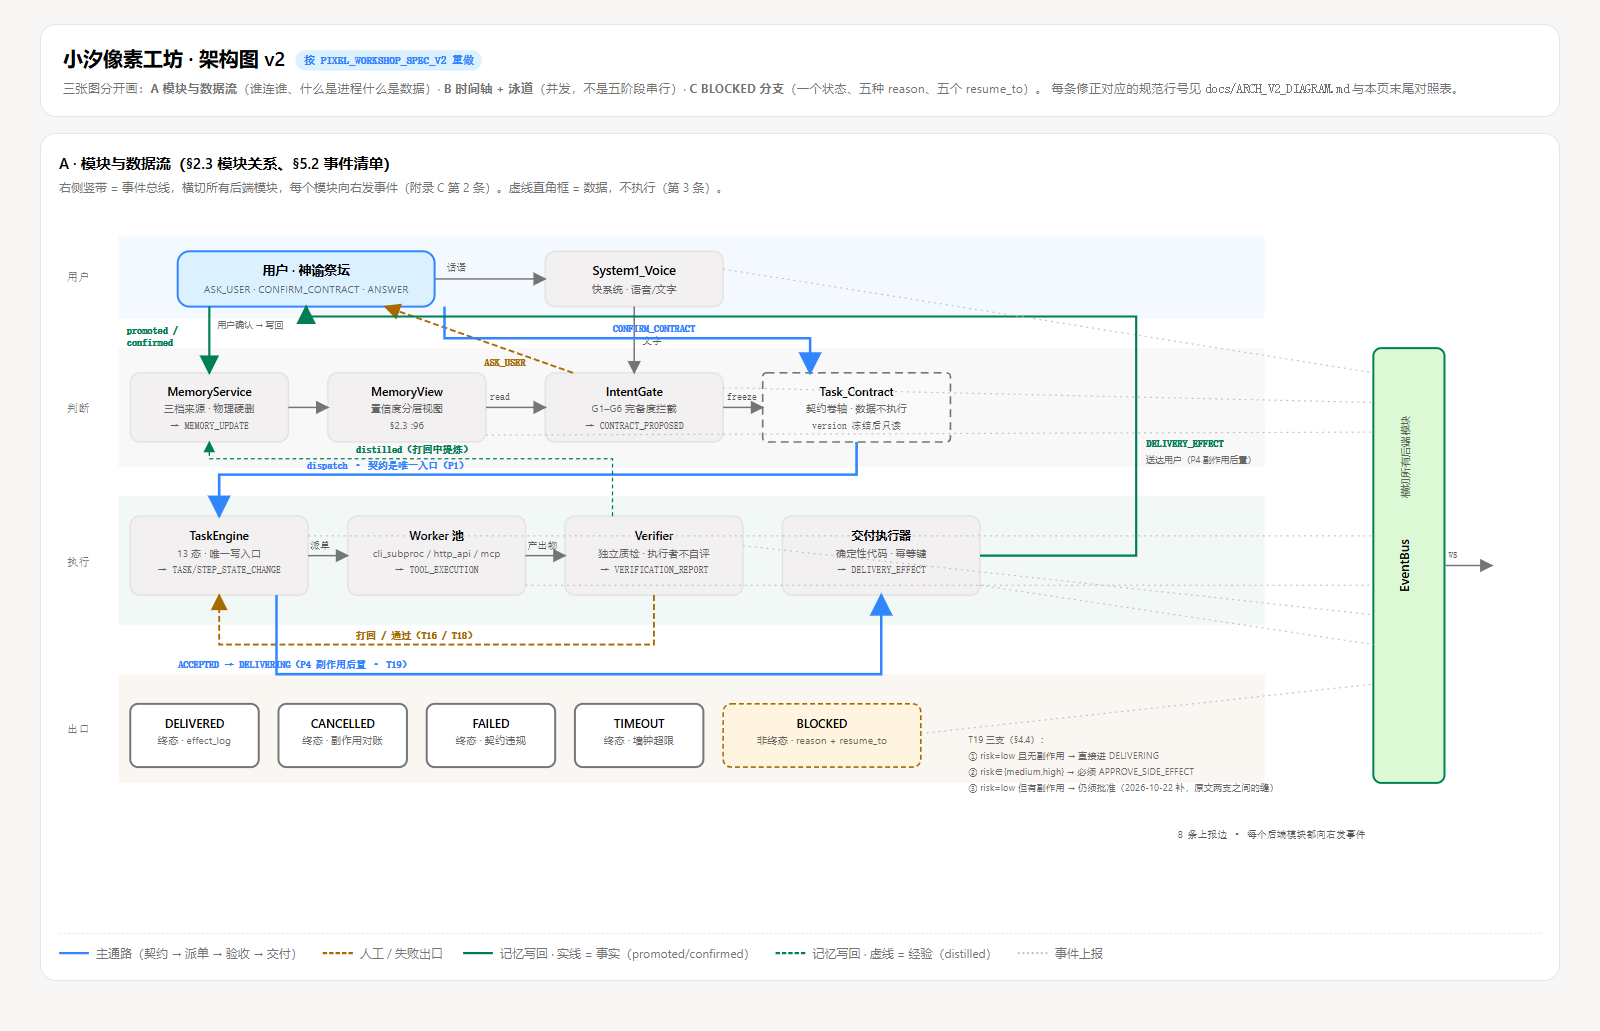
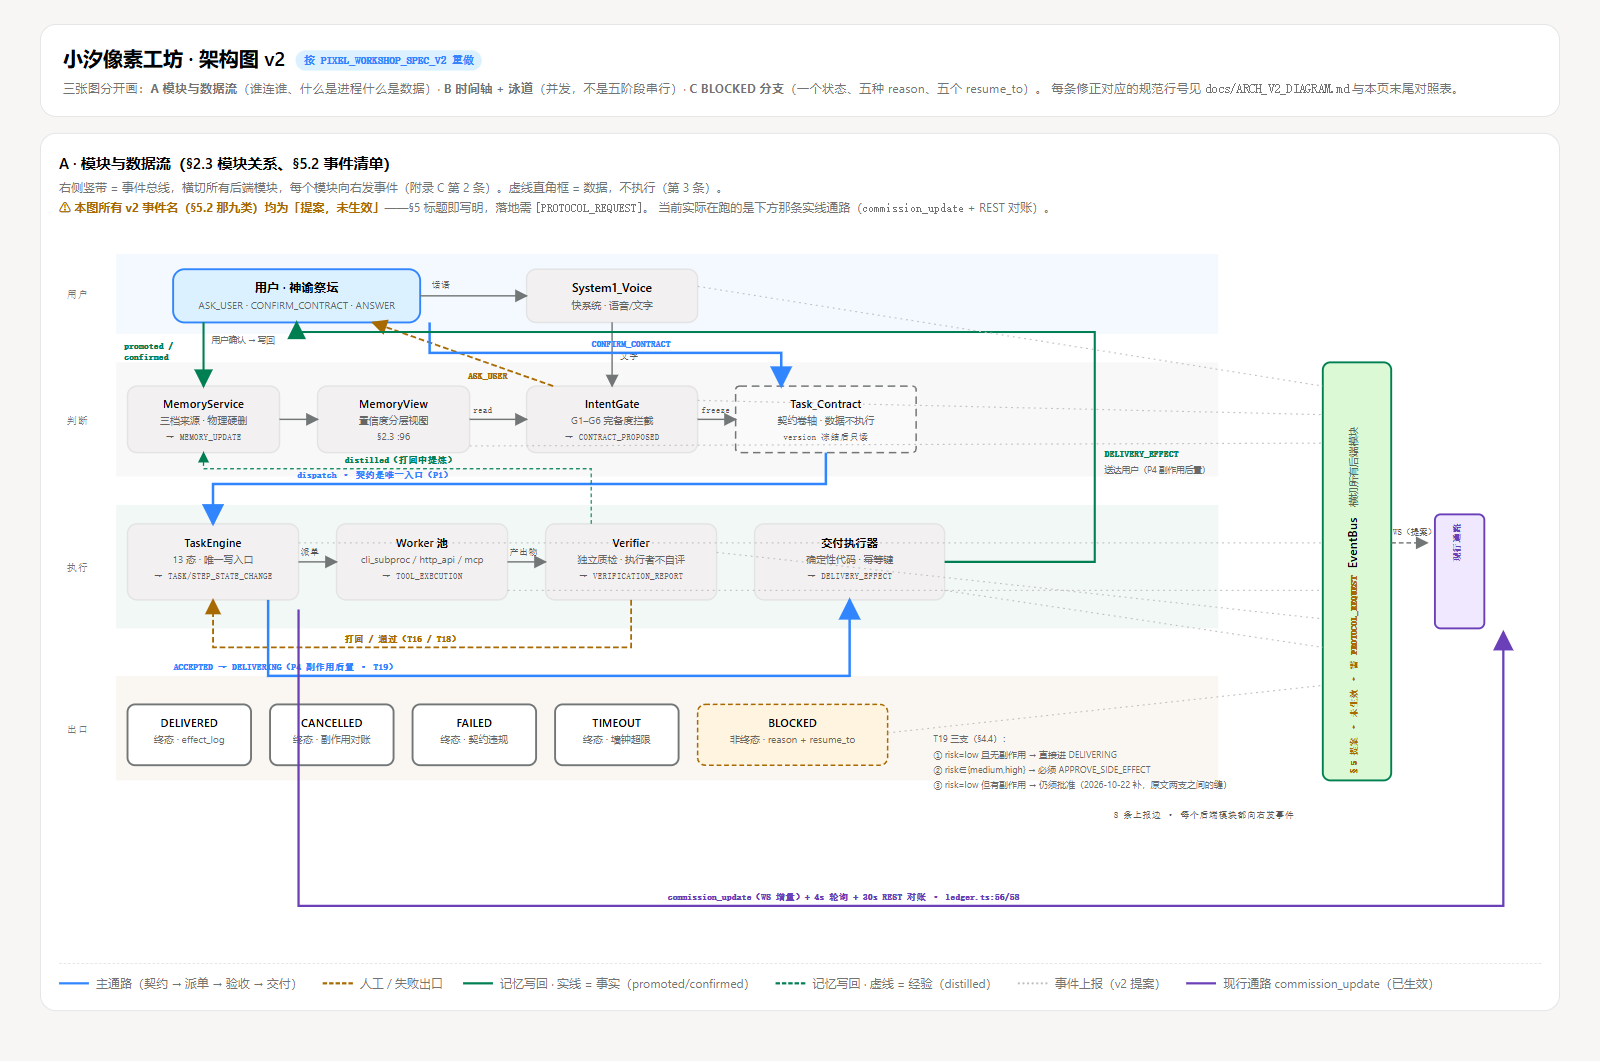
docs(arch): 图 A 标出 §5 事件为提案未生效，并补现行通路 commission_update（紫色实线）

diff --git a/docs/ARCH_V2_DIAGRAM.html b/docs/ARCH_V2_DIAGRAM.html
@@ -38,6 +38,8 @@
   .edge-b{stroke:var(--primary);stroke-width:2.6;fill:none}
   .edge-w{stroke:var(--warn);stroke-width:1.9;fill:none;stroke-dasharray:6 3}
   .edge-m{stroke:var(--positive);stroke-width:2.2;fill:none}
+  .edge-cur{stroke:#6a3fb8;stroke-width:2.4;fill:none}
+  .lbl-cur{fill:#6a3fb8;font-weight:600;font-size:10px;font-family:var(--ff-mono)}
   .edge-m-dash{stroke:var(--positive);stroke-width:1.3;fill:none;stroke-dasharray:4 3}
   .edge-faint{stroke:#c2c2c2;stroke-width:1.2;fill:none;stroke-dasharray:2 4}
   .lbl{font-family:var(--ff-mono);font-size:10px;fill:rgba(0,0,0,.66)}
@@ -73,13 +75,18 @@
 <!-- ============ A · 模块与数据流 ============ -->
 <div class="board" id="board-a">
   <h2>A · 模块与数据流（§2.3 模块关系、§5.2 事件清单）</h2>
-  <div class="note">右侧竖带 = 事件总线，横切所有后端模块，每个模块向右发事件（附录 C 第 2 条）。虚线直角框 = 数据，不执行（第 3 条）。</div>
-  <svg viewBox="0 0 1500 720" role="img" aria-label="模块与数据流">
+  <div class="note">
+    右侧竖带 = 事件总线，横切所有后端模块，每个模块向右发事件（附录 C 第 2 条）。虚线直角框 = 数据，不执行（第 3 条）。<br>
+    <b style="color:#a86a00">⚠ 本图所有 v2 事件名（§5.2 那九类）均为「提案，未生效」</b>——§5 标题即写明，落地需 <code>[PROTOCOL_REQUEST]</code>。
+    当前实际在跑的是下方那条实线通路（<code>commission_update</code> + REST 对账）。
+  </div>
+  <svg viewBox="0 0 1560 760" role="img" aria-label="模块与数据流">
     <defs>
       <marker id="a-ar" markerWidth="9" markerHeight="9" refX="8" refY="4.5" orient="auto"><path d="M0,0 L9,4.5 L0,9 z" fill="#727676"/></marker>
       <marker id="a-arb" markerWidth="9" markerHeight="9" refX="8" refY="4.5" orient="auto"><path d="M0,0 L9,4.5 L0,9 z" fill="#3186ff"/></marker>
       <marker id="a-arw" markerWidth="9" markerHeight="9" refX="8" refY="4.5" orient="auto"><path d="M0,0 L9,4.5 L0,9 z" fill="#a86a00"/></marker>
       <marker id="a-arm" markerWidth="9" markerHeight="9" refX="8" refY="4.5" orient="auto"><path d="M0,0 L9,4.5 L0,9 z" fill="#008052"/></marker>
+      <marker id="a-arc" markerWidth="9" markerHeight="9" refX="8" refY="4.5" orient="auto"><path d="M0,0 L9,4.5 L0,9 z" fill="#6a3fb8"/></marker>
     </defs>
 
     <!-- 层带 -->
@@ -145,8 +152,9 @@
 
     <!-- 总线竖带 -->
     <rect class="node-bus" x="1330" y="140" width="72" height="440" rx="8"/>
-    <text class="t" x="1366" y="360" text-anchor="middle" transform="rotate(-90 1366 360)">EventBus</text>
+    <text class="t" x="1366" y="330" text-anchor="middle" transform="rotate(-90 1366 330)">EventBus</text>
     <text class="s" x="1366" y="250" text-anchor="middle" transform="rotate(-90 1366 250)">横切所有后端模块</text>
+    <text class="s-mono" x="1366" y="470" text-anchor="middle" transform="rotate(-90 1366 470)" style="fill:#a86a00;font-weight:600">§5 提案 · 未生效 · 需 PROTOCOL_REQUEST</text>
 
     <!-- 出口层 -->
     <rect class="node-term" x="72" y="500" width="130" height="64" rx="8"/>
@@ -241,18 +249,27 @@
     <path class="edge-faint" d="M 692 340 L 1330 410"/>
     <path class="edge-faint" d="M 932 380 L 1330 440"/>
     <path class="edge-faint" d="M 872 530 L 1330 480"/>
-    <text class="lbl" x="1322" y="636" text-anchor="end">8 条上报边 · 每个后端模块都向右发事件</text>
+    <text class="lbl" x="1300" y="620" text-anchor="end">8 条上报边 · 每个后端模块都向右发事件</text>
 
-    <!-- 总线 -> 前端 -->
-    <path class="edge" d="M 1402 360 L 1450 360" marker-end="url(#a-ar)"/>
-    <text class="lbl" x="1406" y="352" style="font-size:9px">WS</text>
+    <!-- 总线 -> 前端（v2 提案通路，虚线） -->
+    <path class="edge" d="M 1402 330 L 1440 330" marker-end="url(#a-ar)" stroke-dasharray="5 3"/>
+    <text class="lbl" x="1404" y="322" style="font-size:9px">WS（提案）</text>
+
+    <!-- 当前实际在跑的通路：commission_update + REST 对账（实线，独立通道） -->
+    <rect class="node" x="1448" y="300" width="52" height="120" rx="6" style="fill:#f0e8ff;stroke:#6a3fb8;stroke-width:2;stroke-dasharray:none"/>
+    <text class="s-mono" x="1474" y="330" text-anchor="middle" transform="rotate(-90 1474 330)" style="fill:#6a3fb8;font-weight:600">现行通路</text>
+
+    <!-- 现行通路：TaskEngine 右侧 -> 竖通道 x=1520 -> 现行通路框 -->
+    <path class="edge-cur" d="M 252 400 L 252 712 L 1520 712 L 1520 424" marker-end="url(#a-arc)"/>
+    <text class="lbl-cur" x="640" y="706">commission_update（WS 增量）+ 4s 轮询 + 30s REST 对账 · ledger.ts:56/58</text>
   </svg>
   <div class="legend">
     <span><i class="sw" style="border-color:#3186ff"></i>主通路（契约 → 派单 → 验收 → 交付）</span>
     <span><i class="sw" style="border-color:#a86a00;border-top-style:dashed"></i>人工 / 失败出口</span>
     <span><i class="sw" style="border-color:#008052"></i>记忆写回 · 实线 = 事实（promoted/confirmed）</span>
     <span><i class="sw" style="border-color:#008052;border-top-style:dashed"></i>记忆写回 · 虚线 = 经验（distilled）</span>
-    <span><i class="sw" style="border-color:#c2c2c2;border-top-style:dotted"></i>事件上报</span>
+    <span><i class="sw" style="border-color:#c2c2c2;border-top-style:dotted"></i>事件上报（v2 提案）</span>
+    <span><i class="sw" style="border-color:#6a3fb8;border-top-width:2.5px"></i>现行通路 commission_update（已生效）</span>
   </div>
 </div>
 

diff --git a/docs/ARCH_V2_DIAGRAM.md b/docs/ARCH_V2_DIAGRAM.md
@@ -5,6 +5,14 @@
 **规范基准**：`docs/PIXEL_WORKSHOP_SPEC_V2.md` @ `431ca65`（2026-10-22 10:21 采纳版）
 **做法**：推翻 `tmp/arch-v2.html` 重做。判据是「能不能逐条对上规范行号」，不是像不像原图。
 
+> **⚠ 本图所有 v2 事件名都是「提案，未生效」**（§5 :765 标题即写明）。
+> 图 A 里 v2 九类事件画在 EventBus 竖带（标「§5 提案 · 未生效 · 需 PROTOCOL_REQUEST」），
+> **当前实际在跑的只有一条通路**：`commission_update`（WS 增量）+ 4s 轮询 + 30s REST 对账
+> （`pixel-world/src/world/ledger.ts:56/58`），在图里用**紫色实线**单独画出，与提案态区分。
+>
+> **为什么必须分开画**：附录 C 那七条已经因为「图比规范新」返工过一次。
+> 只画目标态会让读者以为那些事件正在用；只画现状又看不出要换成什么。**两条都画，线型区分。**
+
 ---
 
 ## 一、附录 C 的七条
